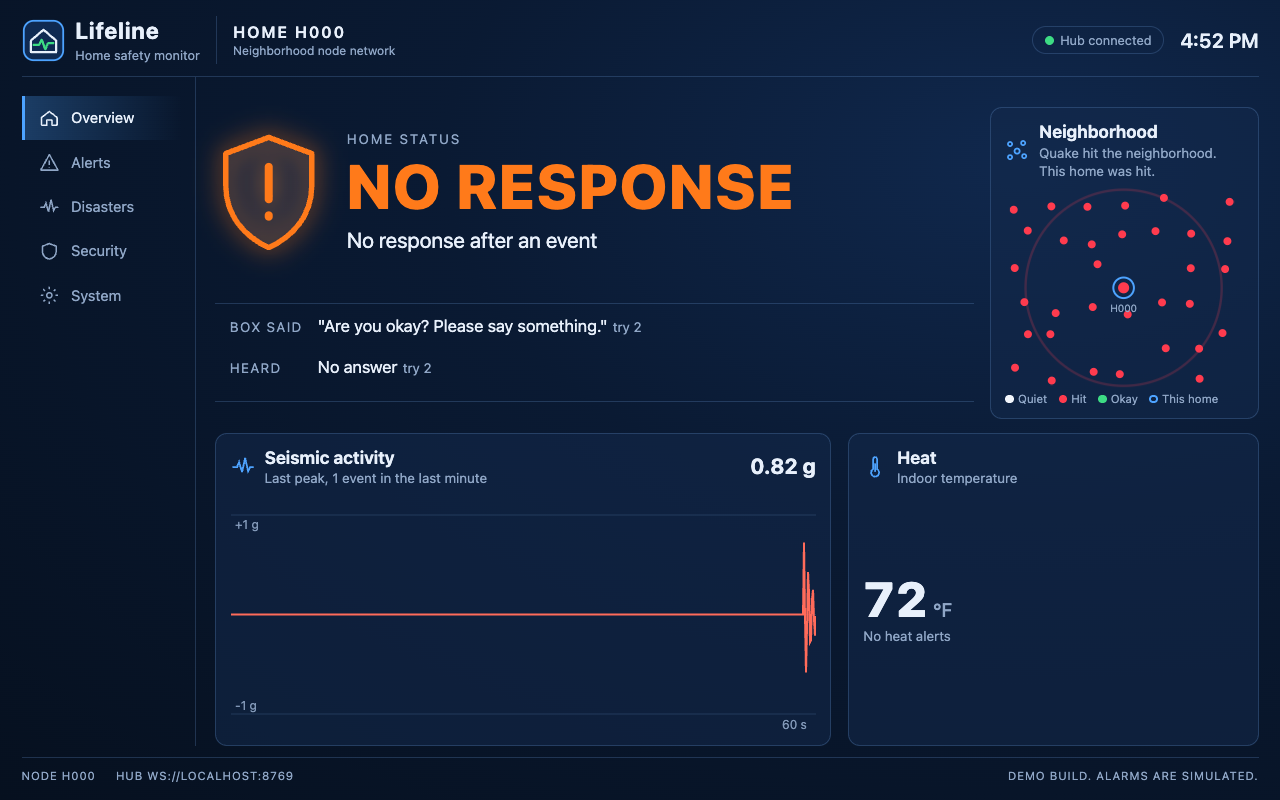
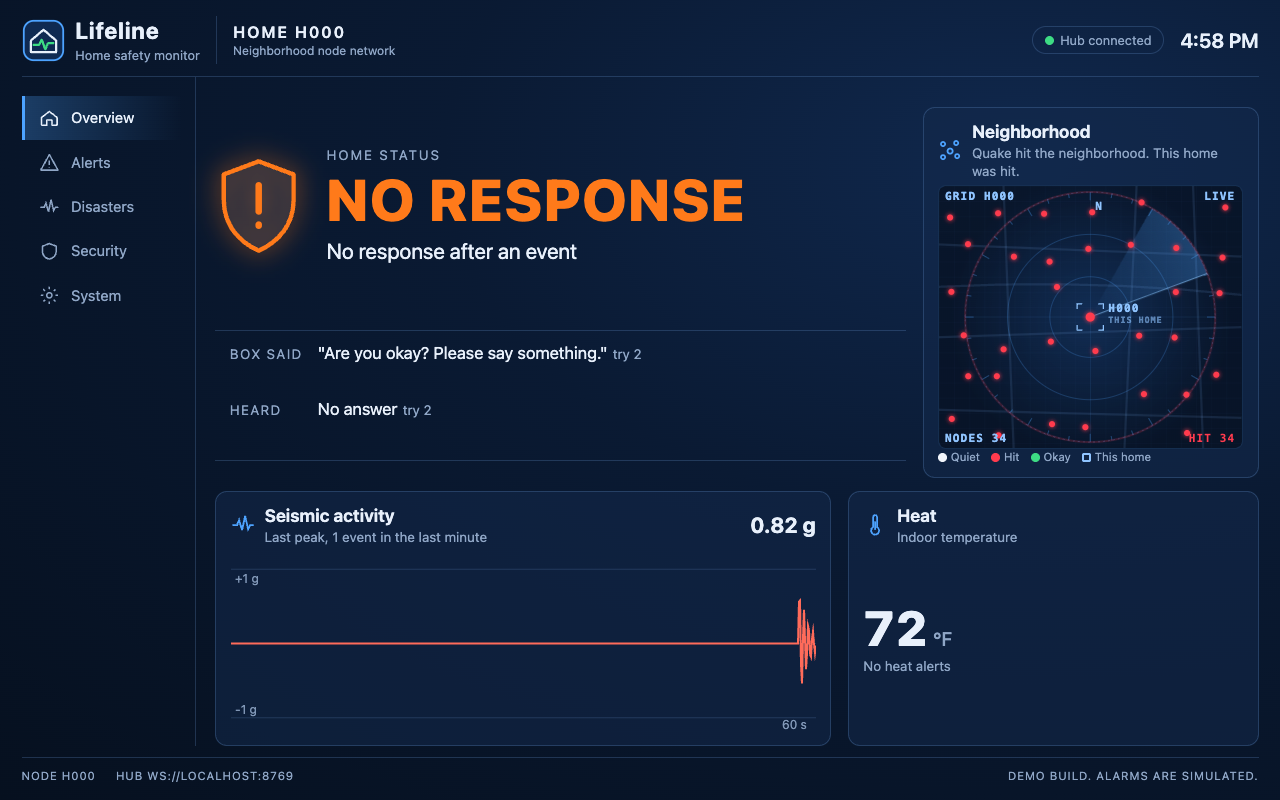
Home screen: tactical scope map with radar sweep, range rings and HUD counts

diff --git a/software/web/home/app.js b/software/web/home/app.js
@@ -18,7 +18,7 @@ document.title = `${PRODUCT_NAME} Home`;
 $('product-name').textContent = PRODUCT_NAME;
 $('hub-url').textContent = `Hub ${hubUrl}`;
 
-// ---------- neighborhood map ----------
+// ---------- neighborhood map (tactical display) ----------
 
 function neighbors() {
   let seed = 7;
@@ -35,27 +35,84 @@ function neighbors() {
 }
 
 const SVG = 'http://www.w3.org/2000/svg';
-function svgEl(tag, attrs) {
+function svgEl(tag, attrs, parent) {
   const el = document.createElementNS(SVG, tag);
   for (const [k, v] of Object.entries(attrs)) el.setAttribute(k, v);
+  if (parent) parent.append(el);
+  return el;
+}
+function hudText(parent, x, y, text, attrs = {}) {
+  const el = svgEl('text', { x, y, class: 'hud', ...attrs }, parent);
+  el.textContent = text;
   return el;
 }
 
 const map = $('map');
-const wave = svgEl('circle', { class: 'wave', cx: HOME.x, cy: HOME.y, r: 4 });
-map.append(wave);
+map.innerHTML = `
+  <defs>
+    <filter id="glow" x="-100%" y="-100%" width="300%" height="300%">
+      <feGaussianBlur stdDeviation="2.2" result="b"/>
+      <feMerge><feMergeNode in="b"/><feMergeNode in="SourceGraphic"/></feMerge>
+    </filter>
+    <linearGradient id="sweep-fill" x1="0" y1="0" x2="1" y2="0">
+      <stop offset="0" stop-color="#4da3ff" stop-opacity="0"/>
+      <stop offset="1" stop-color="#4da3ff" stop-opacity="0.32"/>
+    </linearGradient>
+    <pattern id="grid" width="15" height="15" patternUnits="userSpaceOnUse">
+      <path d="M15 0H0V15" fill="none" stroke="rgba(77,163,255,0.08)" stroke-width="0.6"/>
+    </pattern>
+    <clipPath id="scope"><circle cx="${HOME.x}" cy="${HOME.y}" r="124"/></clipPath>
+  </defs>`;
+
+svgEl('rect', { width: 300, height: 260, fill: 'url(#grid)' }, map);
+
+// Street blocks, drawn faint under everything.
+const streets = svgEl('g', { class: 'streets' }, map);
+for (const d of ['M0 58 L300 70', 'M0 150 L300 140', 'M0 222 L300 230', 'M64 0 L74 260', 'M196 0 L184 260', 'M252 0 L262 260', 'M0 100 Q150 92 300 108']) {
+  svgEl('path', { d }, streets);
+}
+
+const scope = svgEl('g', {}, map);
+for (const r of [40, 82, 124]) svgEl('circle', { cx: HOME.x, cy: HOME.y, r, class: 'range' }, scope);
+svgEl('path', { d: `M${HOME.x - 124} ${HOME.y}H${HOME.x + 124}M${HOME.x} ${HOME.y - 124}V${HOME.y + 124}`, class: 'cross' }, scope);
+for (let deg = 0; deg < 360; deg += 10) {
+  const a = (deg * Math.PI) / 180;
+  const inner = deg % 30 === 0 ? 116 : 120;
+  svgEl('line', {
+    x1: HOME.x + Math.sin(a) * inner, y1: HOME.y - Math.cos(a) * inner,
+    x2: HOME.x + Math.sin(a) * 124, y2: HOME.y - Math.cos(a) * 124, class: 'tick',
+  }, scope);
+}
+hudText(scope, HOME.x + 5, HOME.y - 106, 'N');
+
+const sweepGroup = svgEl('g', { 'clip-path': 'url(#scope)' }, map);
+const sweep = svgEl('g', { class: 'sweep' }, sweepGroup);
+svgEl('path', { d: `M${HOME.x} ${HOME.y}L${HOME.x + 124} ${HOME.y}A124 124 0 0 0 ${HOME.x + 124 * Math.cos(-0.7)} ${HOME.y + 124 * Math.sin(-0.7)}Z`, fill: 'url(#sweep-fill)' }, sweep);
+svgEl('line', { x1: HOME.x, y1: HOME.y, x2: HOME.x + 124, y2: HOME.y, class: 'sweep-edge' }, sweep);
+
+const wave = svgEl('circle', { class: 'wave', cx: HOME.x, cy: HOME.y, r: 4 }, map);
+
 const neighborDots = neighbors().map(({ x, y }) => {
-  const el = svgEl('circle', { class: 'node', cx: x, cy: y, r: 5 });
+  const el = svgEl('circle', { class: 'node', cx: x, cy: y, r: 3, filter: 'url(#glow)' }, map);
   el.style.transitionDelay = `${Math.round(Math.hypot(x - HOME.x, y - HOME.y) * 8)}ms`;
-  map.append(el);
   return el;
 });
-map.append(svgEl('circle', { class: 'ring', cx: HOME.x, cy: HOME.y, r: 13 }));
-const homeDot = svgEl('circle', { class: 'node', cx: HOME.x, cy: HOME.y, r: 7 });
-map.append(homeDot);
-const homeLabel = svgEl('text', { x: HOME.x, y: HOME.y + 30, 'text-anchor': 'middle', fill: '#8fa6c6', 'font-size': 13 });
-homeLabel.textContent = 'H000';
-map.append(homeLabel);
+
+// Reticle on this home: four corner brackets.
+const b = 13, l = 5;
+svgEl('path', {
+  class: 'reticle',
+  d: [[-1, -1], [1, -1], [1, 1], [-1, 1]].map(([sx, sy]) =>
+    `M${HOME.x + sx * b} ${HOME.y + sy * (b - l)}V${HOME.y + sy * b}H${HOME.x + sx * (b - l)}`).join(''),
+}, map);
+const homeDot = svgEl('circle', { class: 'node home', cx: HOME.x, cy: HOME.y, r: 4.5, filter: 'url(#glow)' }, map);
+hudText(map, HOME.x + 18, HOME.y - 5, 'H000');
+hudText(map, HOME.x + 18, HOME.y + 6, 'THIS HOME', { class: 'hud dim' });
+
+const hudNodes = hudText(map, 6, 254, '');
+const hudHit = hudText(map, 294, 254, '', { 'text-anchor': 'end' });
+hudText(map, 6, 14, 'GRID H000');
+const hudLive = hudText(map, 294, 14, '', { 'text-anchor': 'end' });
 
 function renderMap() {
   for (const el of neighborDots) el.classList.toggle('hit', state.areaHit);
@@ -68,6 +125,13 @@ function renderMap() {
     wave.classList.add('go');
   }
   lastWaveAt = last;
+  const total = neighborDots.length + 1;
+  const hit = (state.areaHit ? neighborDots.length : 0) + (state.home === 'hit' ? 1 : 0);
+  hudNodes.textContent = `NODES ${total}`;
+  hudHit.textContent = `HIT ${hit}`;
+  hudHit.classList.toggle('alarm', hit > 0);
+  hudLive.textContent = connected ? 'LIVE' : 'NO LINK';
+  hudLive.classList.toggle('alarm', !connected);
   const homeNote = { hit: 'This home was hit', ok: 'This home is okay', idle: '' }[state.home];
   $('map-sub').textContent = state.areaHit ? `Quake hit the neighborhood. ${homeNote}.` : homeNote ? `${homeNote}.` : 'All homes quiet';
 }

diff --git a/software/web/home/index.html b/software/web/home/index.html
@@ -84,7 +84,7 @@
   /* Main */
   main {
     display: grid; min-height: 0;
-    grid-template-columns: minmax(0, 1fr) calc(var(--u) * 20);
+    grid-template-columns: minmax(0, 1fr) calc(var(--u) * 25);
     grid-template-rows: auto auto auto 1fr;
     grid-template-areas: "banner banner" "hero map" "convo map" "cards cards";
     gap: calc(var(--u) * 1) calc(var(--u) * 1.2);
@@ -105,7 +105,7 @@
   .banner .area { color: var(--muted); white-space: nowrap; margin-left: auto; }
 
   .hero { grid-area: hero; display: flex; align-items: center; gap: calc(var(--u) * 1.8); padding: calc(var(--u) * 0.8) 0 calc(var(--u) * 0.4); }
-  .shield { width: calc(var(--u) * 8); height: calc(var(--u) * 9); flex: none; color: var(--status); filter: drop-shadow(0 0 calc(var(--u) * 0.9) var(--status)); }
+  .shield { width: calc(var(--u) * 6.5); height: calc(var(--u) * 7.3); flex: none; color: var(--status); filter: drop-shadow(0 0 calc(var(--u) * 0.9) var(--status)); }
   .shield .glyph { display: none; }
   body[data-status="PROTECTED"] .shield .g-ok,
   body[data-status="CHECKING_IN"] .shield .g-ask,
@@ -113,7 +113,7 @@
   body[data-status="CONTACTING_HELP"] .shield .g-warn { display: inline; }
   .eyebrow { color: var(--muted); letter-spacing: 0.14em; font-size: calc(var(--u) * 1); text-transform: uppercase; }
   .word {
-    font-size: calc(var(--u) * 4.6); line-height: 1; font-weight: 800; letter-spacing: 0.03em;
+    font-size: calc(var(--u) * 4.3); line-height: 1; font-weight: 800; letter-spacing: 0.03em;
     color: var(--status); margin: 0.12em 0 0.15em;
   }
   body[data-status="PROTECTED"] .word { color: var(--text); }
@@ -158,14 +158,26 @@
   #map { flex: 1; width: 100%; min-height: 0; margin-top: 0.4em; }
   .map .legend { display: flex; gap: 1em; color: var(--muted); font-size: calc(var(--u) * 0.85); flex-wrap: wrap; }
   .map .legend i { display: inline-block; width: 0.75em; height: 0.75em; border-radius: 50%; margin-right: 0.35em; vertical-align: -0.05em; }
+  #map { background: radial-gradient(circle at 50% 50%, rgba(20, 60, 110, 0.35), rgba(3, 10, 22, 0.6) 70%); border-radius: 8px; border: 1px solid rgba(77, 163, 255, 0.18); }
+  .streets path { fill: none; stroke: rgba(120, 170, 235, 0.13); stroke-width: 2.2; }
+  .range { fill: none; stroke: rgba(77, 163, 255, 0.28); stroke-width: 0.8; }
+  .range:last-of-type { stroke-dasharray: 2 3; }
+  .cross { stroke: rgba(77, 163, 255, 0.16); stroke-width: 0.6; }
+  .tick { stroke: rgba(77, 163, 255, 0.45); stroke-width: 0.8; }
+  .sweep { transform-origin: 150px 130px; animation: spin 5s linear infinite; }
+  .sweep-edge { stroke: rgba(140, 200, 255, 0.7); stroke-width: 1; }
+  @keyframes spin { to { transform: rotate(360deg); } }
+  .hud { fill: #8fc4ff; font: 600 8px ui-monospace, "SF Mono", Menlo, Consolas, monospace; letter-spacing: 0.1em; font-size: 11px; }
+  .hud.dim { fill: rgba(143, 196, 255, 0.6); font-size: 8.5px; }
+  .hud.alarm { fill: var(--danger); }
+  .reticle { fill: none; stroke: #8fc4ff; stroke-width: 1.3; }
   .node { fill: #f2f6fc; transition: fill 0.25s; }
   .node.hit { fill: var(--danger); }
   .node.ok { fill: var(--ok); }
-  .ring { fill: none; stroke: var(--accent); stroke-width: 2.5; }
-  .wave { fill: none; stroke: var(--danger); stroke-width: 3; opacity: 0; }
+  .wave { fill: none; stroke: var(--danger); stroke-width: 2; opacity: 0; }
   .wave.go { animation: wave 1.6s ease-out forwards; }
   @keyframes wave { from { r: 4; opacity: 0.9; } to { r: 160; opacity: 0; } }
-  @media (prefers-reduced-motion: reduce) { .wave.go { animation: none; } .node { transition: none; } }
+  @media (prefers-reduced-motion: reduce) { .wave.go, .sweep { animation: none; } .node { transition: none; } }
 
   footer {
     grid-column: 1 / -1; display: flex; gap: calc(var(--u) * 1.5); align-items: center;
@@ -248,7 +260,7 @@
         <div><div class="card-title">Neighborhood</div><div class="card-sub" id="map-sub">All homes quiet</div></div>
       </div>
       <svg id="map" viewBox="0 0 300 260" aria-label="Neighborhood node map"></svg>
-      <div class="legend"><span><i style="background:#f2f6fc"></i>Quiet</span><span><i style="background:var(--danger)"></i>Hit</span><span><i style="background:var(--ok)"></i>Okay</span><span><i style="border:2px solid var(--accent)"></i>This home</span></div>
+      <div class="legend"><span><i style="background:#f2f6fc"></i>Quiet</span><span><i style="background:var(--danger)"></i>Hit</span><span><i style="background:var(--ok)"></i>Okay</span><span><i style="border:2px solid #8fc4ff;border-radius:2px"></i>This home</span></div>
     </section>
 
     <div class="cards">
